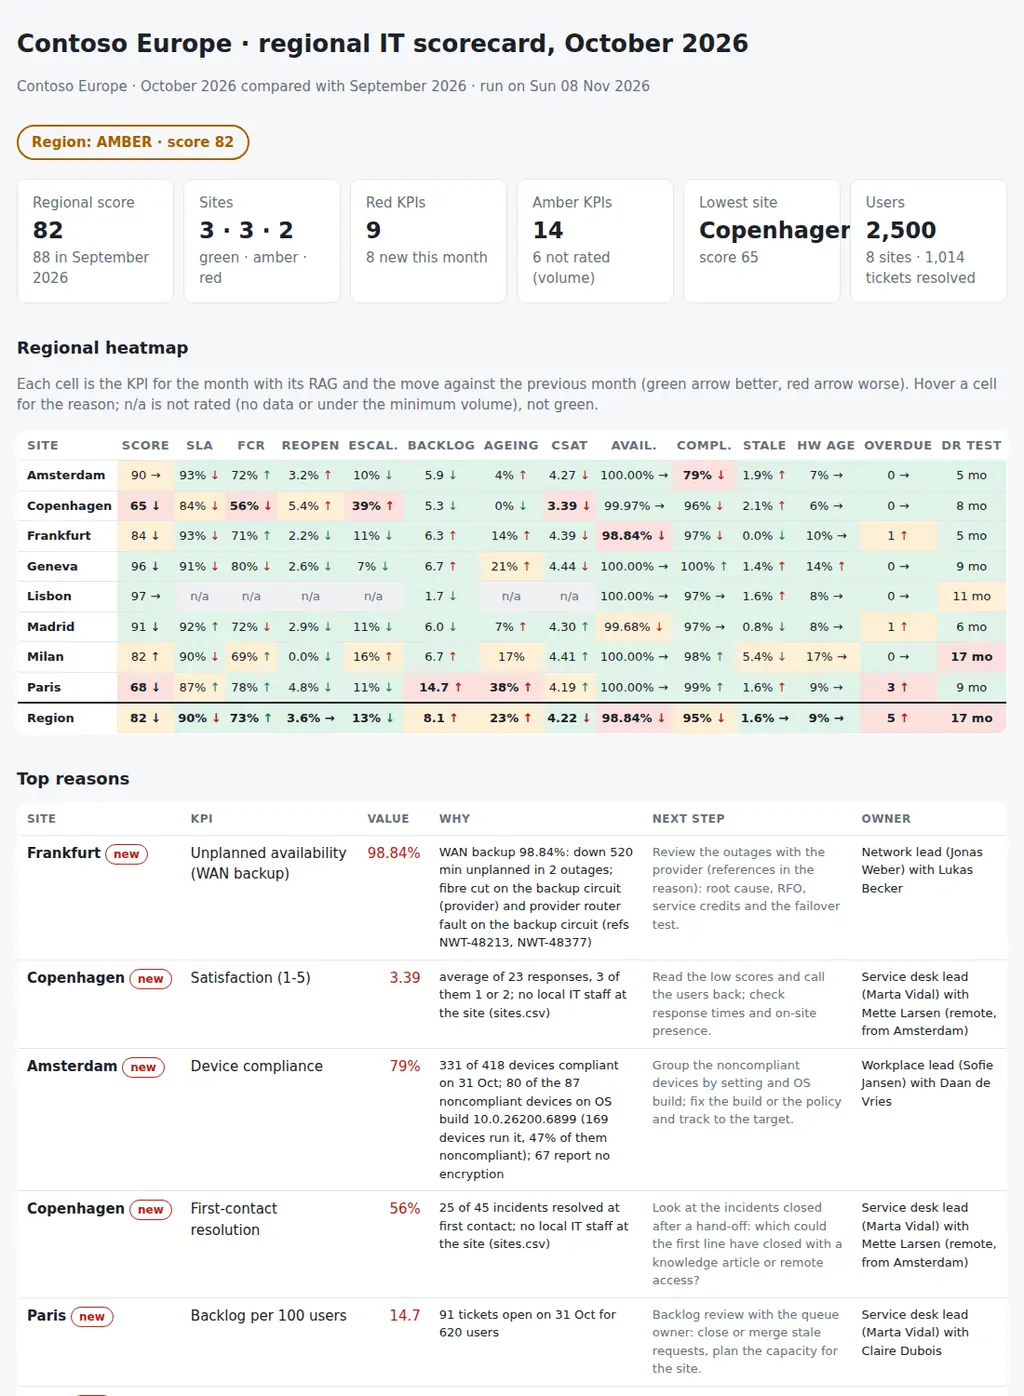
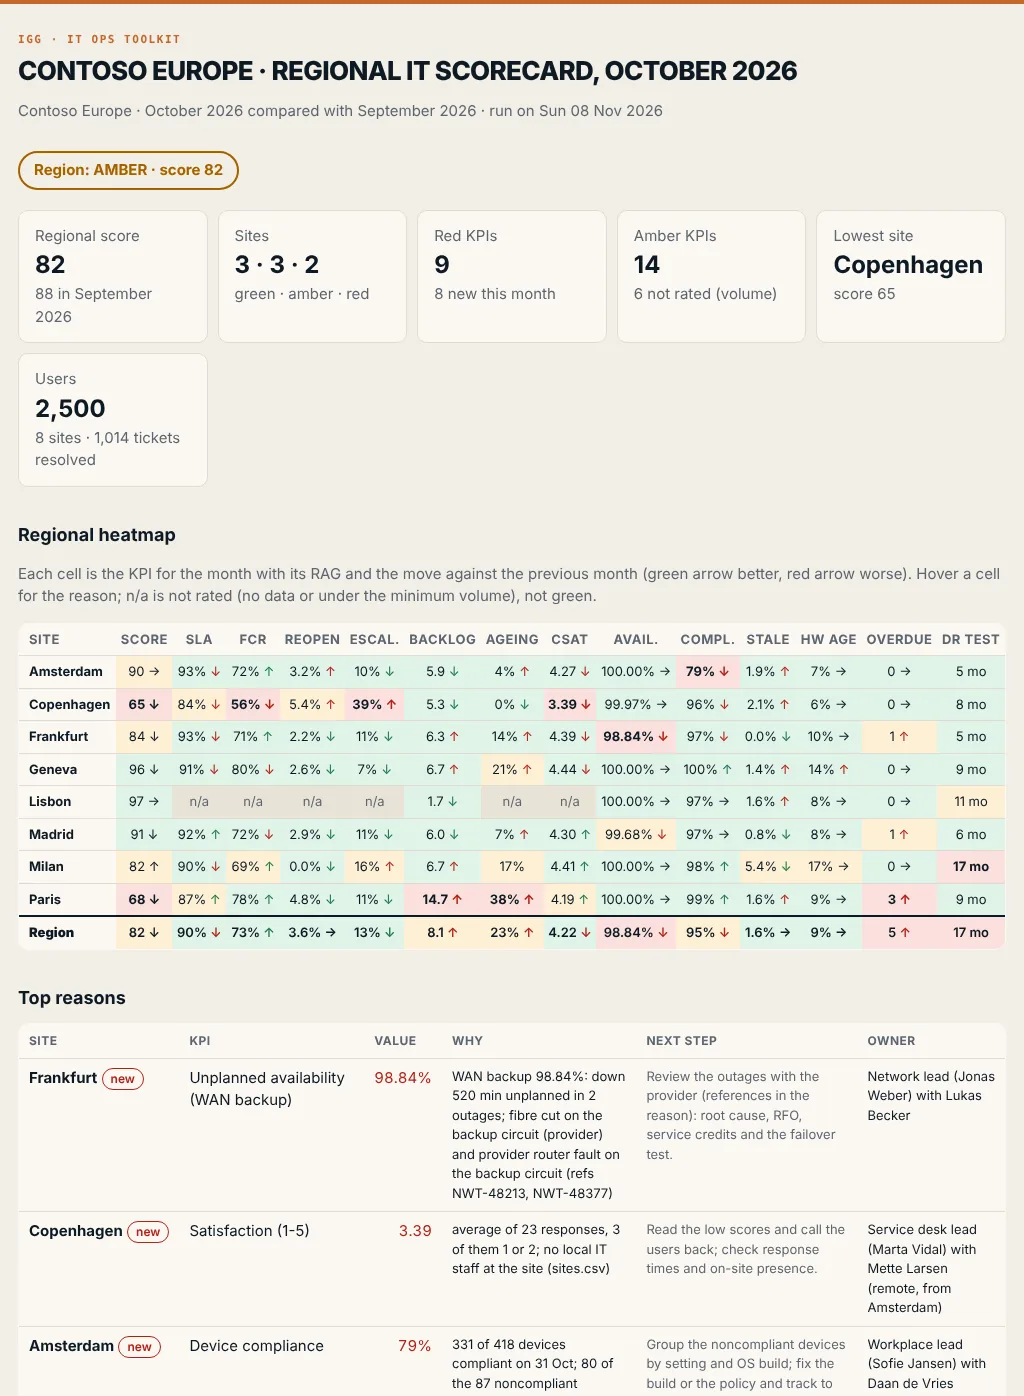
Report: IGG colours (paper, ink and the orange accent) and a new screenshot

diff --git a/sitescorecard/report.py b/sitescorecard/report.py
@@ -184,11 +184,11 @@ def pack_md(d: Data, rv: dict, findings: list[Finding], title: str) -> str:
 # ---------------------------------------------------------------- html
 
 CSS = """
-:root{--bg:#f6f7f8;--card:#fff;--ink:#1b2128;--muted:#66717c;--line:#e2e5e9;--ok:#1e7a4c;--warn:#a46200;--bad:#b42318;--info:#0b6bcb;
---g:#dff3e8;--a:#fdf0d5;--r:#fbe0dd;--n:#eef0f2}
-@media (prefers-color-scheme:dark){:root{--bg:#13171b;--card:#1b2127;--ink:#e7eaee;--muted:#9aa5b0;--line:#2b333b;--ok:#4cc38a;--warn:#f0a83a;
---bad:#f2685c;--info:#5aa9f0;--g:#173527;--a:#3d2f12;--r:#45201d;--n:#232a31}}
-*{box-sizing:border-box}body{margin:0;background:var(--bg);color:var(--ink);font:15px/1.5 system-ui,-apple-system,Segoe UI,sans-serif}
+:root{--bg:#f2eee6;--card:#fbf8f3;--ink:#0e1a24;--muted:#5d6670;--line:#e2dccf;--ok:#1e7a4c;--warn:#a46200;--bad:#b42318;--info:#1f5f8b;
+--g:#dff3e8;--a:#fdf0d5;--r:#fbe0dd;--n:#e8e2d6}
+@media (prefers-color-scheme:dark){:root{--bg:#0e1a24;--card:#142331;--ink:#f2eee6;--muted:#a9b3bb;--line:#24364a;--ok:#4cc38a;--warn:#f0a83a;
+--bad:#f2685c;--info:#5aa9f0;--g:#173527;--a:#3d2f12;--r:#45201d;--n:#1b2b3b}}
+*{box-sizing:border-box}body{border-top:4px solid #c4672b}h1{font-weight:800;letter-spacing:-.025em;text-transform:uppercase;line-height:1.05}h1::before{content:"IGG · IT Ops toolkit";display:block;font:600 11px/1.4 ui-monospace,SFMono-Regular,Menlo,monospace;letter-spacing:.14em;text-transform:uppercase;color:#c4672b;margin-bottom:10px}body{margin:0;background:var(--bg);color:var(--ink);font:15px/1.5 system-ui,-apple-system,Segoe UI,sans-serif}
 main{max-width:1100px;margin:0 auto;padding:28px 18px 60px}h1{font-size:26px;margin:0 0 4px}h2{font-size:18px;margin:34px 0 12px}h3{font-size:15px;margin:0 0 4px}
 .muted{color:var(--muted)}.tiles{display:grid;grid-template-columns:repeat(auto-fit,minmax(160px,1fr));gap:10px;margin-top:20px}
 .tile{background:var(--card);border:1px solid var(--line);border-radius:10px;padding:14px 16px}.tile b{display:block;font-size:24px}
